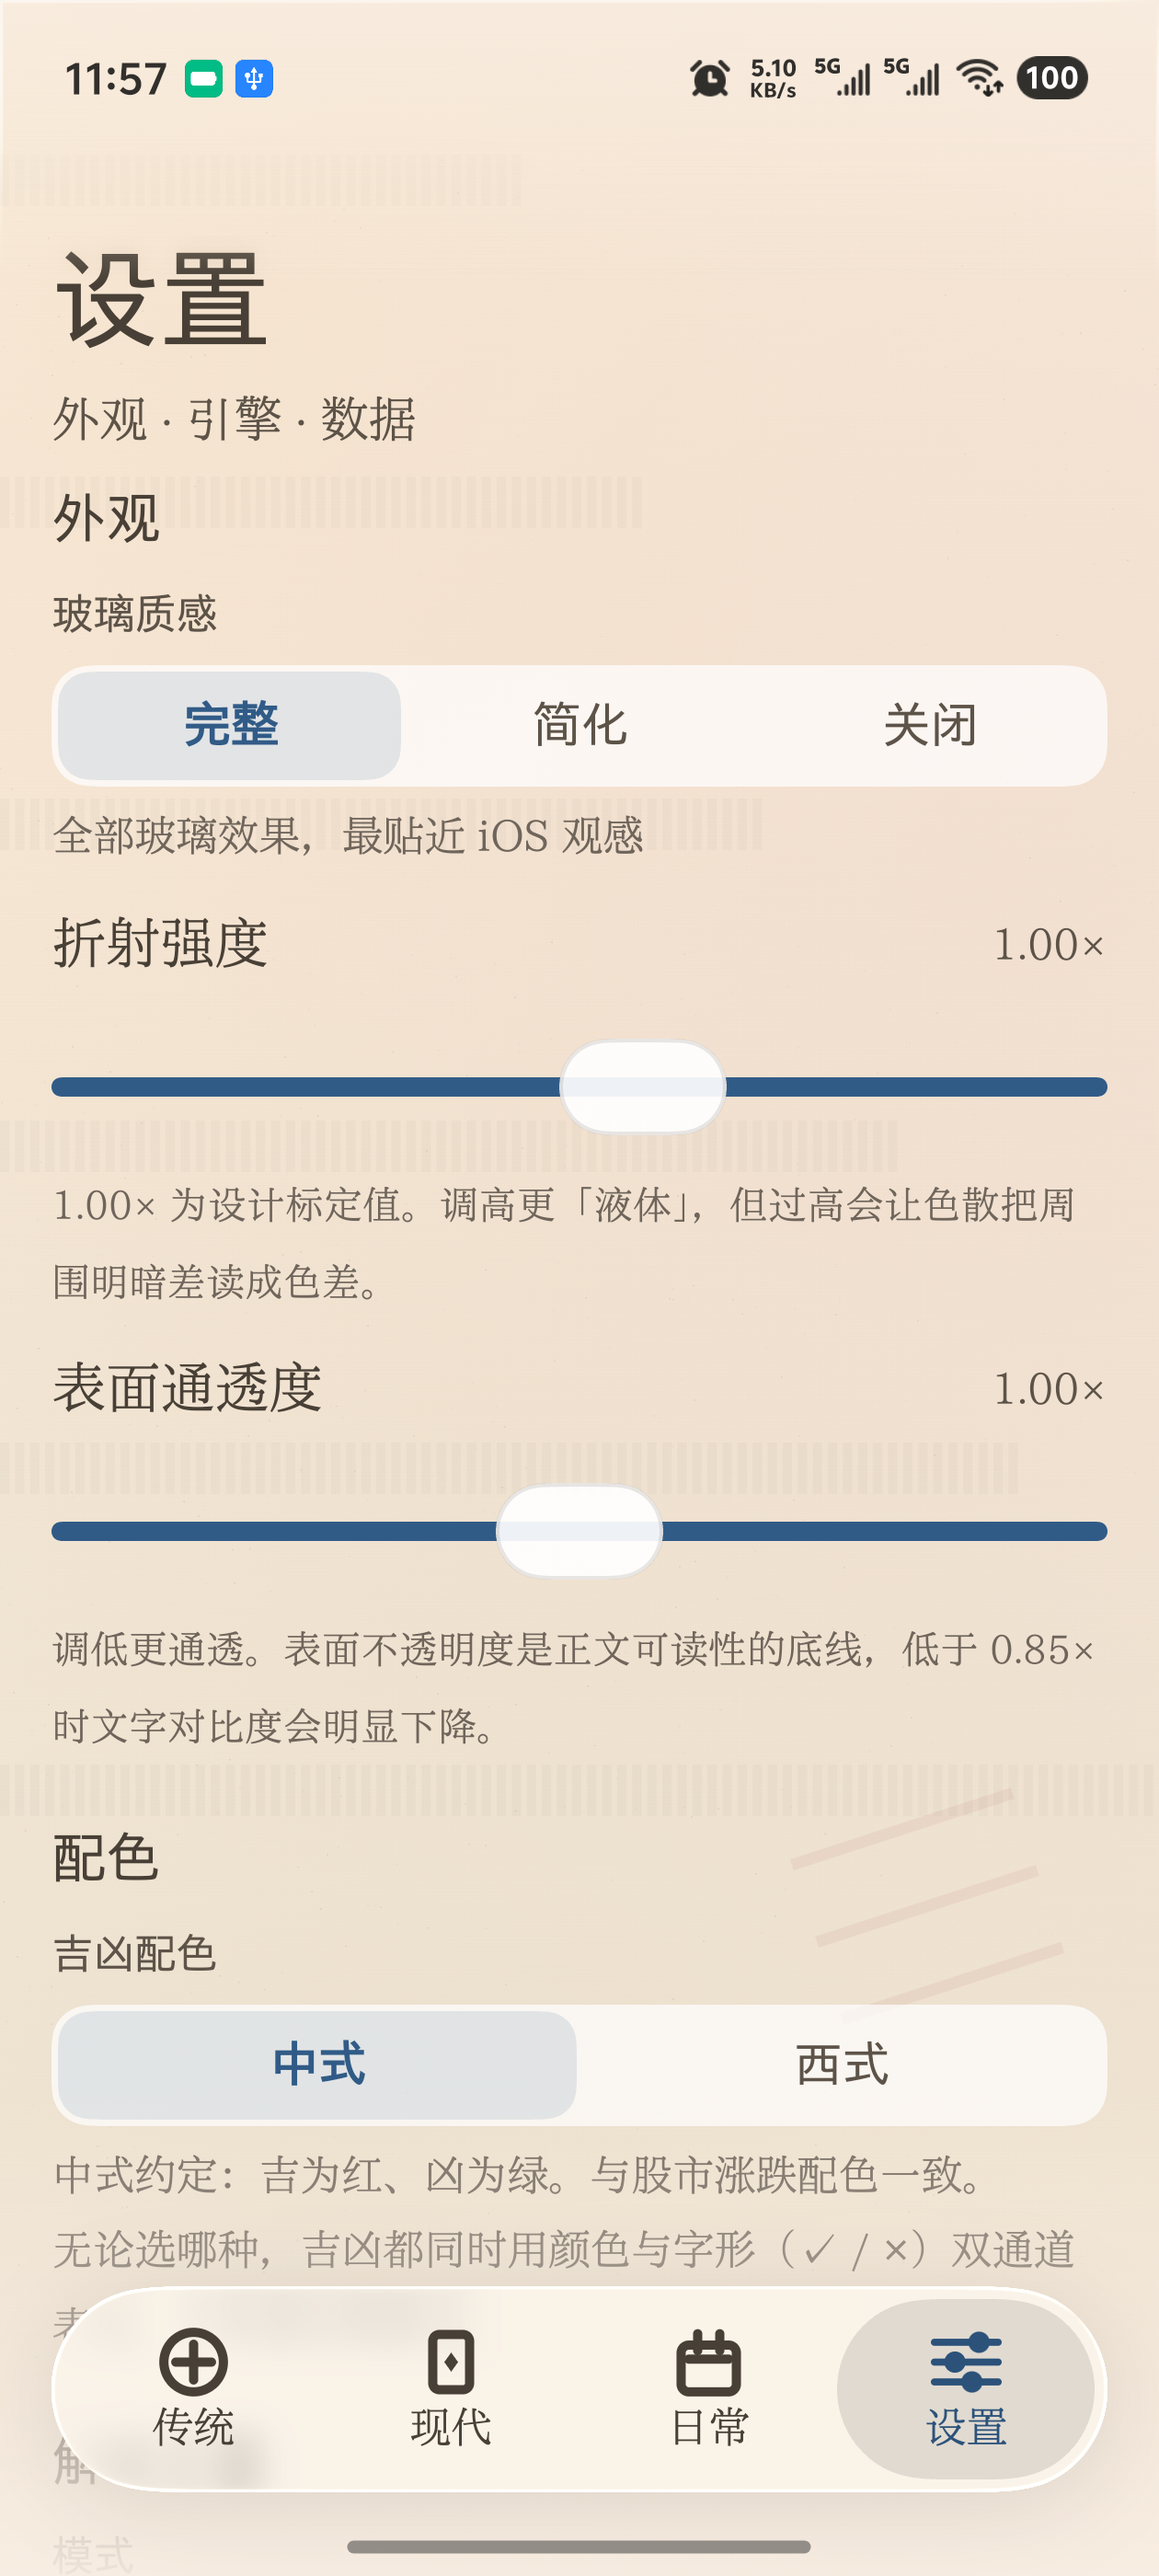
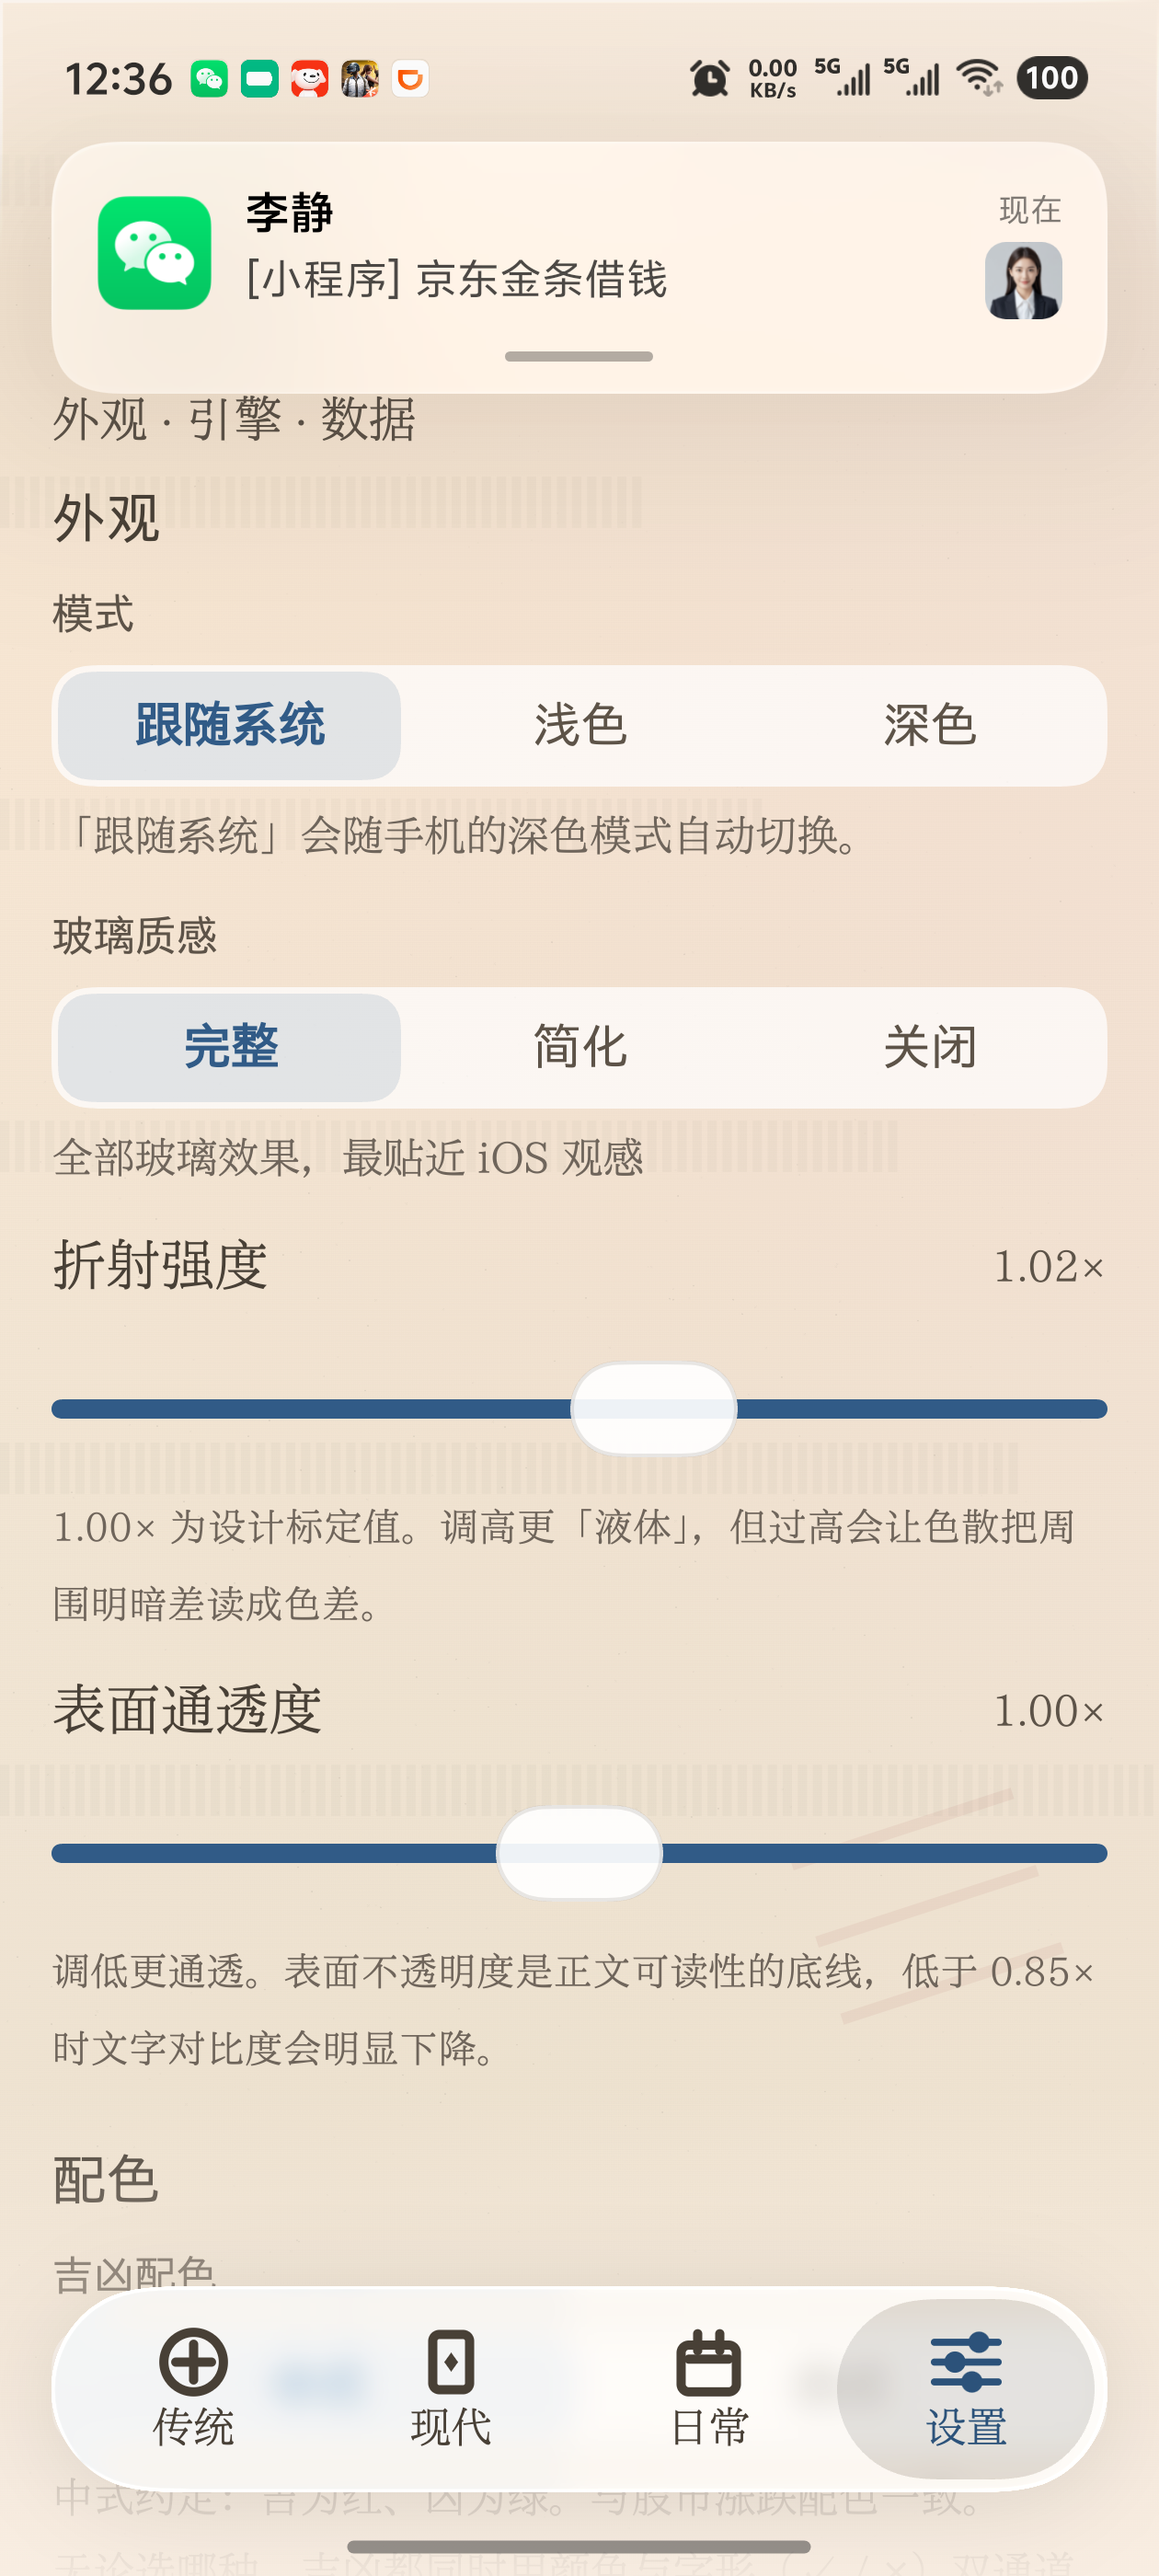
feat(settings): 明暗模式手动切换
用户要求加。原来主题是**纯跟随系统**：`MagicTheme()` 用默认参数
`darkTheme = isSystemInDarkTheme()`，没有任何手动选项。

改动
1. `MagicSettings` 加 `themeMode: ThemeMode = ThemeMode.SYSTEM`
   （SYSTEM 跟随系统 / LIGHT / DARK），默认跟随系统 ——
   用户没主动选过时不该替他决定。
2. 设置页「外观」区顶部加「模式」分段控件 + 说明。
3. `MainActivity` 把设置读取提到 `MagicTheme` **之外** ——
   主题决定 MagicTheme 的入参，必须在它之前读到。
   `SettingsStore` 用 `preferencesDataStore` 委托，同进程重复创建会共享
   同一个 DataStore 实例，所以这里再 new 一次是安全的（已注释说明）。

真机验证
- 浅色下切「深色」→ 全界面变深，选中态高亮，零崩溃
- 切回「跟随系统」正常

顺带发现一个真实问题
测试时误触把「折射强度」从 1.00× 拖到了 0.42×，界面立刻发灰、
玻璃几乎消失 —— 但**没有一键还原入口**，只能凭记忆手调回 1.00。
这印证了「恢复默认设置」确实该做，下一轮补。

diff --git a/app/src/main/java/com/maohongyuan/magic/MainActivity.kt b/app/src/main/java/com/maohongyuan/magic/MainActivity.kt
@@ -64,7 +64,24 @@ class MainActivity : ComponentActivity() {
 
         enableEdgeToEdge()
         setContent {
-            MagicTheme {
+            // 主题必须在 MagicTheme 之外读取 —— 它决定 MagicTheme 的入参。
+            // SettingsStore 内部用 preferencesDataStore 委托，同进程重复创建
+            // 会共享同一个 DataStore 实例，所以这里再 new 一次是安全的。
+            val ctx = androidx.compose.ui.platform.LocalContext.current
+            val themeStore = androidx.compose.runtime.remember { SettingsStore(ctx) }
+            var themeMode by androidx.compose.runtime.remember {
+                androidx.compose.runtime.mutableStateOf(com.maohongyuan.magic.core.data.ThemeMode.SYSTEM)
+            }
+            androidx.compose.runtime.LaunchedEffect(Unit) {
+                themeStore.settings.collect { themeMode = it.themeMode }
+            }
+            val dark = when (themeMode) {
+                com.maohongyuan.magic.core.data.ThemeMode.SYSTEM ->
+                    androidx.compose.foundation.isSystemInDarkTheme()
+                com.maohongyuan.magic.core.data.ThemeMode.LIGHT -> false
+                com.maohongyuan.magic.core.data.ThemeMode.DARK -> true
+            }
+            MagicTheme(darkTheme = dark) {
                 MagicApp()
             }
         }

diff --git a/app/src/main/java/com/maohongyuan/magic/SettingsScreen.kt b/app/src/main/java/com/maohongyuan/magic/SettingsScreen.kt
@@ -32,6 +32,7 @@ import androidx.compose.ui.unit.sp
 import com.maohongyuan.magic.core.data.ColorScheme
 import com.maohongyuan.magic.core.data.GlassQuality
 import com.maohongyuan.magic.core.data.MagicSettings
+import com.maohongyuan.magic.core.data.ThemeMode
 import com.maohongyuan.magic.designsystem.glass.GlassLevel
 import com.maohongyuan.magic.designsystem.glass.MagicBadge
 import com.maohongyuan.magic.designsystem.glass.MagicCaption
@@ -79,6 +80,17 @@ fun SettingsScreen(
         ) {
         // ── 外观 ──
         Section("外观") {
+            MagicLabel("模式")
+            Spacer(Modifier.height(MagicSpacing.row))
+            MagicSegmentedControl(
+                options = ThemeMode.entries.map { it.label },
+                selectedIndex = ThemeMode.entries.indexOf(settings.themeMode),
+                onSelect = { onChange(settings.copy(themeMode = ThemeMode.entries[it])) },
+            )
+            Spacer(Modifier.height(MagicSpacing.xs))
+            MagicCaption("「跟随系统」会随手机的深色模式自动切换。")
+            Spacer(Modifier.height(MagicSpacing.cardPadding))
+
             MagicLabel("玻璃质感")
             Spacer(Modifier.height(MagicSpacing.row))
             MagicSegmentedControl(

diff --git a/core/data/src/main/java/com/maohongyuan/magic/core/data/MagicSettings.kt b/core/data/src/main/java/com/maohongyuan/magic/core/data/MagicSettings.kt
@@ -14,6 +14,14 @@ enum class GlassQuality(val label: String, val description: String) {
     OFF("关闭", "实色表面，性能最省"),
 }
 
+/** 明暗模式 */
+enum class ThemeMode(val label: String) {
+    /** 跟随系统（默认） */
+    SYSTEM("跟随系统"),
+    LIGHT("浅色"),
+    DARK("深色"),
+}
+
 /** 吉凶配色方案 */
 enum class ColorScheme(val label: String) {
     /** 中式：吉=红、凶=绿 */
@@ -32,6 +40,10 @@ enum class ColorScheme(val label: String) {
 @Serializable
 data class MagicSettings(
     // ── 外观 ──
+    /**
+     * 明暗模式。默认跟随系统 —— 用户没主动选过时，不该替他决定。
+     */
+    val themeMode: ThemeMode = ThemeMode.SYSTEM,
     val glassQuality: GlassQuality = GlassQuality.FULL,
     val colorScheme: ColorScheme = ColorScheme.CHINESE,
     /**
